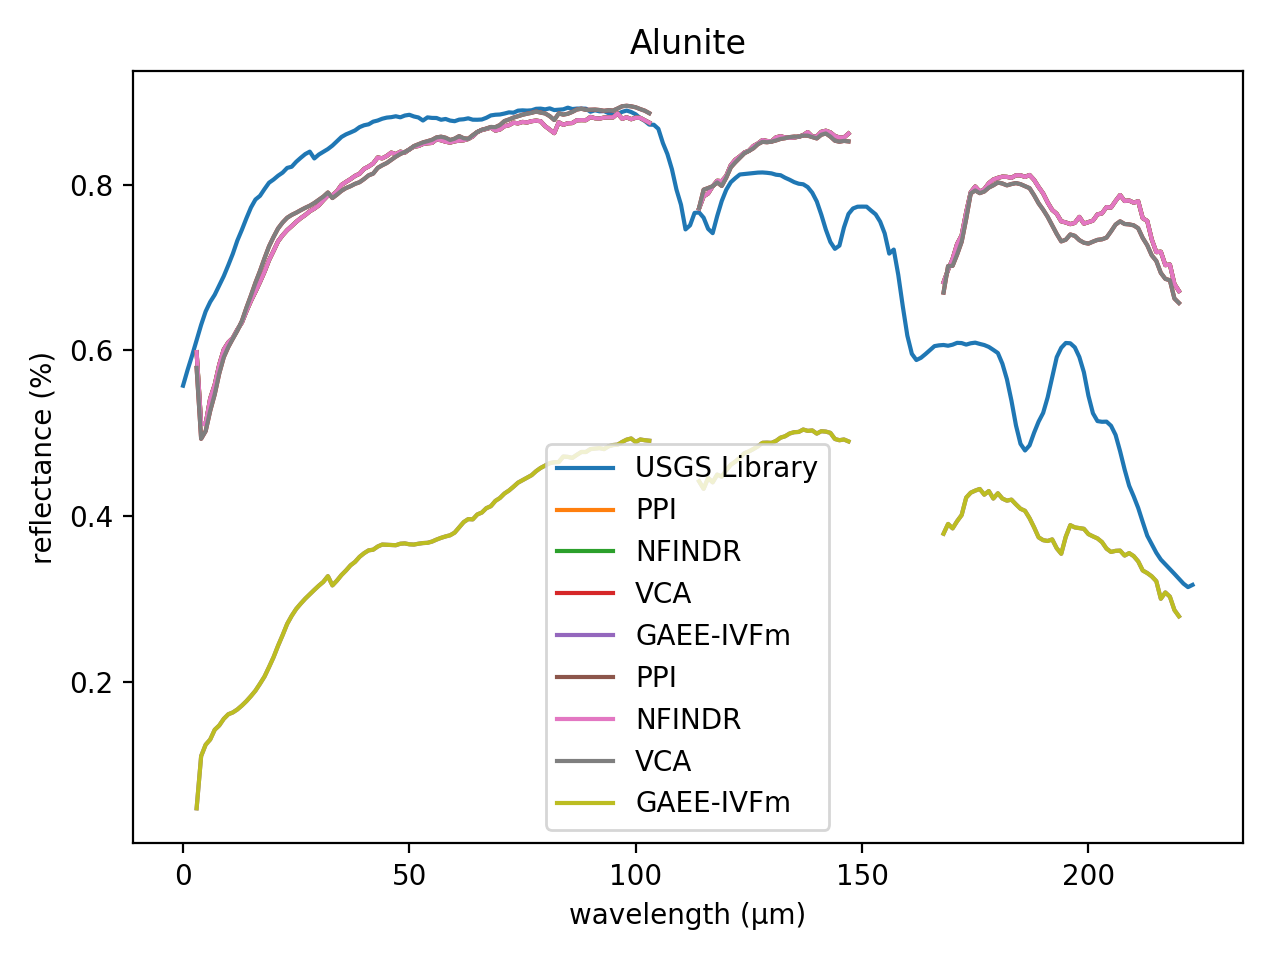
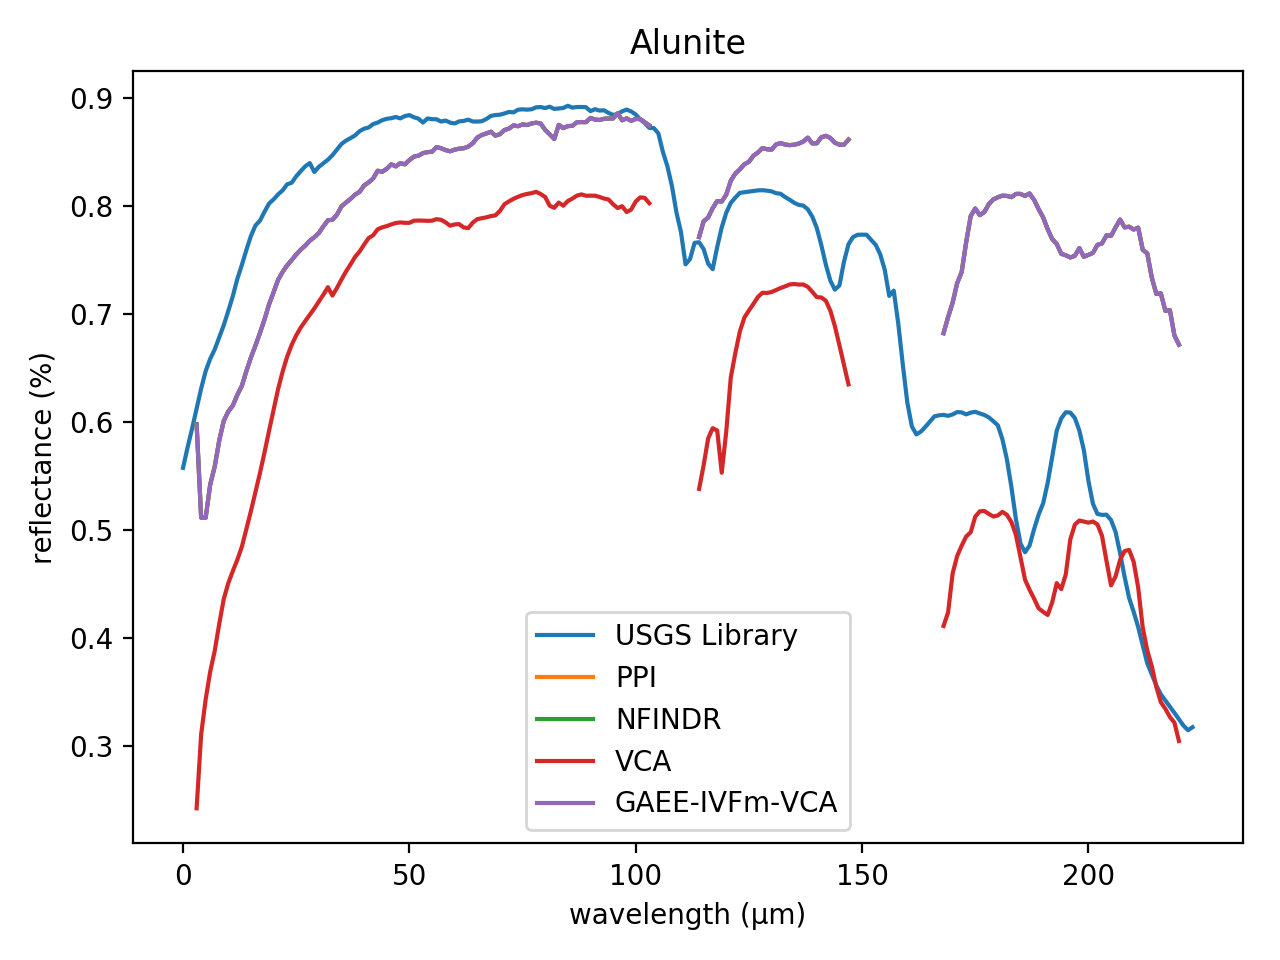
Endmembers Plot

diff --git a/DEMO.py b/DEMO.py
@@ -518,46 +518,37 @@ def run():
 	tab5_sid_stats['Statistics'] = ['_Mean_','_Std_','_p-value_','Gain','_Time_']	
 	tab5_sid_stats.set_index('Statistics',inplace=True) 
 
+	best_sam_gaee = None
+	best_sam_mean_gaee = 9999
+	best_sid_gaee = None
+	best_sid_mean_gaee = 9999
+
+	algo2 = []
+
+	for k in range(0,3):
+		algo2.append(algo[k])
+
+	for k in algo:
+		if k.name != 'PPI' and k.name != 'NFINDR' and k.name != 'VCA':
+			if np.mean(k.sam_mean) <= best_sam_mean_gaee :
+				best_sam_gaee = k
+				best_sam_mean_gaee = np.mean(k.sam_mean)
+			if np.mean(k.sid_mean) <= best_sid_mean_gaee :
+				best_sid_gaee = k
+				best_sid_mean_gaee = np.mean(k.sid_mean)
+
+	algo2.append(best_sam_gaee)
+
 
 	for l in algo:
-		best_gaee = None
-		best_mean_gaee = 9999
-		algo2 = []
-
-		for k in range(0,3):
-			algo2.append(algo[k])
-
-		for k in algo:
-			if k.name != 'PPI' and k.name != 'NFINDR' and k.name != 'VCA':
-				if np.mean(k.sam_mean) <= best_mean_gaee :
-					best_gaee = k
-					best_mean_gaee = np.mean(k.sam_mean)
-
-		algo2.append(best_gaee)
 
 		p = stats.ttest_ind(np.mean(vca.sam_all_runs_value,axis=1),np.mean(l.sam_all_runs_value,axis=1))
 		tab1_sam[l.name] = l.sam_values_min
-		tab4_sam_stats[l.name] = [np.mean(l.sam_mean), np.mean(l.sam_std), p[0], 100-(100*np.mean(best_gaee.sam_mean)/np.mean(l.sam_mean)), np.mean(l.time_runs)]
-		
-		best_gaee = None
-		best_mean_gaee = 9999
-		algo2 = []
-
-		for k in range(0,3):
-			algo2.append(algo[k])
-
-		for k in algo:
-			if k.name != 'PPI' and k.name != 'NFINDR' and k.name != 'VCA':
-				if np.mean(k.sid_mean) <= best_mean_gaee :
-					best_gaee = k
-					best_mean_gaee = np.mean(k.sid_mean)
-
-		algo2.append(best_gaee)
-
+		tab4_sam_stats[l.name] = [np.mean(l.sam_mean), np.mean(l.sam_std), p[0], 100-(100*np.mean(best_sam_gaee.sam_mean)/np.mean(l.sam_mean)), np.mean(l.time_runs)]
 
 		p = stats.ttest_ind(np.mean(vca.sid_all_runs_value,axis=1),np.mean(l.sid_all_runs_value,axis=1))
 		tab2_sid[l.name] = l.sid_values_min
-		tab5_sid_stats[l.name] = [np.mean(l.sid_mean), np.mean(l.sid_std), p[0],100-(100*np.mean(best_gaee.sam_mean)/np.mean(l.sam_mean)) ,np.mean(l.time_runs)]
+		tab5_sid_stats[l.name] = [np.mean(l.sid_mean), np.mean(l.sid_std), p[0],100-(100*np.mean(best_sid_gaee.sam_mean)/np.mean(l.sam_mean)) ,np.mean(l.time_runs)]
 
 
 	file.write('### Comparison between the ground-truth Laboratory Reflectances and extracted endmembers using PPI, N-FINDR, VCA, GAEE, GAEE-IVFm using SAM for the Cuprite Dataset.\n\n')
@@ -592,23 +583,10 @@ def run():
 		table_fancy = table_fancy.replace(line, line.replace(' '+mi+' ', ' **'+mi+'** '))
 	file.write(table_fancy+'\n\n')
 
-
-	for k in range(0,3):
-		algo2.append(algo[k])
-
-		for k in algo:
-			if k.name != 'PPI' and k.name != 'NFINDR' and k.name != 'VCA':
-				if np.mean(k.sam_mean) <= best_mean_gaee :
-					best_gaee = k
-					best_mean_gaee = np.mean(k.sam_mean)
-
-	algo2.append(best_gaee)	
-	colors = []
-
 	# fig = plt.figure()
 	for i in range(0, 12):
 		fig = plt.figure()
-		plt.plot(best_gaee.groundtruth[:,i],label='USGS Library')
+		plt.plot(best_sam_gaee.groundtruth[:,i],label='USGS Library')
 		
 		for idx, k in enumerate(algo2):
 			new_endmember = np.empty((k.groundtruth.shape[0],k.p)) 

diff --git a/README.md b/README.md
@@ -29,55 +29,55 @@ Maximum number of iterations (N-FINDR): 1
 
 | Endmembers       |    PPI |   NFINDR |    VCA |   GAEE |   GAEE-IVFm |   GAEE-VCA |   GAEE-IVFm-VCA |
 |:-----------------|-------:|---------:|-------:|-------:|------------:|-----------:|----------------:|
-| Alunite          | 0.3744 |   **0.0926** | 0.1016 | 0.2821 |      0.2495 |     0.2154 |          0.1433 |
-| Andradite        | 0.0758 |   **0.0725** | 0.0874 | 0.0736 |      0.0763 |     0.0796 |          0.0832 |
-| Buddingtonite    | 0.2081 |   **0.0762** | 0.0786 | 0.1115 |      0.1240 |     **0.0762** |          **0.0762** |
-| Dumortierite     | 0.1907 |   0.0720 | **0.0708** | 0.0796 |      0.0905 |     0.1007 |          0.0721 |
-| Kaolinite_1      | **0.0795** |   0.0870 | 0.1191 | 0.0851 |      0.1025 |     0.1242 |          0.1556 |
-| Kaolinite_2      | 0.0820 |   0.0889 | 0.0811 | **0.0621** |      0.0657 |     0.0679 |          0.0886 |
-| Muscovite        | 0.2506 |   0.1091 | **0.1065** | 0.1635 |      0.1774 |     0.1454 |          0.1211 |
-| Montmonrillonite | 0.1338 |   0.0648 | **0.0640** | 0.0649 |      0.0804 |     0.0653 |          0.0646 |
-| Nontronite       | 0.1033 |   **0.0758** | 0.0799 | 0.0781 |      0.0771 |     0.0820 |          0.0771 |
-| Pyrope           | **0.0579** |   0.1222 | 0.2140 | 0.0695 |      0.0674 |     0.0616 |          0.2310 |
-| Sphene           | **0.0673** |   0.2857 | 0.0834 | 0.0781 |      0.1147 |     0.0698 |          0.0698 |
-| Chalcedony       | 0.0871 |   0.0871 | **0.0761** | 0.1175 |      0.1083 |     0.0765 |          0.0765 |
+| Alunite          | 0.3744 |   **0.0926** | 0.1025 | 0.2242 |      0.3112 |     **0.0926** |          **0.0926** |
+| Andradite        | 0.0758 |   0.0725 | 0.0825 | **0.0669** |      0.0701 |     0.0710 |          0.0789 |
+| Buddingtonite    | 0.2081 |   **0.0762** | 0.0786 | 0.1266 |      0.0906 |     0.1550 |          **0.0762** |
+| Dumortierite     | 0.1907 |   0.0720 | **0.0708** | 0.0896 |      0.0791 |     0.0755 |          0.1209 |
+| Kaolinite_1      | **0.0795** |   0.0870 | 0.0862 | 0.0875 |      0.1053 |     0.0870 |          0.0870 |
+| Kaolinite_2      | 0.0820 |   0.0889 | 0.0785 | **0.0628** |      0.0660 |     0.0936 |          0.0658 |
+| Muscovite        | 0.2506 |   0.1091 | **0.1084** | 0.1752 |      0.1610 |     0.1825 |          0.1211 |
+| Montmonrillonite | 0.1338 |   0.0648 | 0.0651 | 0.0656 |      0.0669 |     0.0657 |          **0.0646** |
+| Nontronite       | 0.1033 |   0.0758 | 0.1122 | **0.0718** |      0.0795 |     0.0789 |          0.0801 |
+| Pyrope           | **0.0579** |   0.1222 | 0.2768 | 0.0601 |      0.0778 |     0.0670 |          0.0588 |
+| Sphene           | 0.0673 |   0.2857 | **0.0530** | 0.0990 |      0.0638 |     0.1000 |          0.2182 |
+| Chalcedony       | **0.0871** |   **0.0871** | 0.0878 | 0.1388 |      0.1221 |     **0.0871** |          **0.0871** |
 
 ### SAM Statistics for Cuprite Dataset. 
 
-| Statistics   |      PPI |   NFINDR |     VCA |    GAEE |   GAEE-IVFm |   GAEE-VCA |   GAEE-IVFm-VCA |
-|:-------------|---------:|---------:|--------:|--------:|------------:|-----------:|----------------:|
-| _Mean_       |   0.1425 |   0.1059 |  **0.0984** |  0.1106 |      0.1139 |     0.1054 |          0.1054 |
-| _Std_        |   **0.0000** |   0.0086 |  0.0065 |  0.0094 |      0.0109 |     0.0131 |          0.0142 |
-| _p-value_    | -28.8327 |  -2.1689 |  0.0000 | -2.2800 |     -4.8922 |    **-0.8218** |         -4.3537 |
-| Gain         |  26.0739 |   0.5364 | **-7.0768** |  4.7203 |      7.5104 |     0.0000 |          0.0460 |
-| _Time_       |   0.2686 |   4.0963 |  0.6955 |  0.2738 |      0.2505 |     0.2393 |          **0.2325** |
+| Statistics   |      PPI |   NFINDR |    VCA |    GAEE |   GAEE-IVFm |   GAEE-VCA |   GAEE-IVFm-VCA |
+|:-------------|---------:|---------:|-------:|--------:|------------:|-----------:|----------------:|
+| _Mean_       |   0.1425 |   0.1059 | 0.1030 |  0.1107 |      0.1126 |     0.1040 |          **0.0976** |
+| _Std_        |   **0.0000** |   0.0086 | 0.0260 |  0.0061 |      0.0082 |     0.0142 |          0.0018 |
+| _p-value_    | -13.9798 |  -0.6928 | 0.0000 | -1.3316 |     -1.7156 |    **-0.1215** |          1.6440 |
+| Gain         |  31.5080 |   7.8477 | 5.2402 | 11.7820 |     13.2709 |     6.1464 |         **-0.0000** |
+| _Time_       |   0.2455 |   3.9192 | 0.7190 |  0.2367 |      0.2436 |     **0.2148** |          0.2480 |
 
 ### Comparison between the ground-truth Laboratory Reflectances and extracted endmembers using PPI, N-FINDR, VCA, GAEE, GAEE-IVFm using SID for the Cuprite Dataset.
 
 | Endmembers       |    PPI |   NFINDR |    VCA |   GAEE |   GAEE-IVFm |   GAEE-VCA |   GAEE-IVFm-VCA |
 |:-----------------|-------:|---------:|-------:|-------:|------------:|-----------:|----------------:|
-| Alunite          | **0.0000** |   **0.0000** | 0.0133 | **0.0000** |      **0.0000** |     **0.0000** |          **0.0000** |
-| Andradite        | **0.0000** |   0.0062 | 0.0087 | 0.0063 |      **0.0000** |     0.0085 |          0.0119 |
-| Buddingtonite    | 0.0477 |   **0.0072** | 0.0077 | 0.0197 |      0.0187 |     **0.0072** |          **0.0072** |
-| Dumortierite     | 0.0562 |   **0.0069** | 0.0072 | 0.0084 |      0.0130 |     0.0151 |          0.0075 |
-| Kaolinite_1      | 0.0114 |   0.0131 | 0.0167 | **0.0108** |      0.0175 |     0.0181 |          0.0256 |
-| Kaolinite_2      | 0.0114 |   0.0109 | 0.0076 | 0.0064 |      **0.0039** |     0.0053 |          0.0078 |
-| Muscovite        | 0.0969 |   0.0317 | **0.0143** | 0.0360 |      0.0390 |     0.0429 |          0.0313 |
-| Montmonrillonite | 0.0230 |   0.0049 | 0.0049 | 0.0051 |      0.0049 |     0.0049 |          **0.0047** |
-| Nontronite       | 0.0126 |   0.0077 | **0.0075** | 0.0077 |      0.0077 |     0.0094 |          0.0155 |
-| Pyrope           | 0.0071 |   0.0531 | 0.0532 | **0.0065** |      0.0071 |     0.0071 |          0.0740 |
-| Sphene           | **0.0076** |   0.0912 | 0.0096 | 0.0259 |      0.0308 |     0.0093 |          0.0093 |
-| Chalcedony       | 0.0088 |   0.0088 | **0.0069** | 0.0190 |      0.0307 |     0.0070 |          0.0070 |
+| Alunite          | **0.0000** |   **0.0000** | 0.0140 | **0.0000** |      **0.0000** |     **0.0000** |          0.0107 |
+| Andradite        | **0.0000** |   0.0062 | 0.0256 | **0.0000** |      **0.0000** |     **0.0000** |          0.0119 |
+| Buddingtonite    | 0.0477 |   0.0072 | 0.0077 | **0.0000** |      0.0105 |     0.0325 |          0.0072 |
+| Dumortierite     | 0.0562 |   0.0069 | **0.0056** | 0.0130 |      0.0084 |     0.0077 |          0.0197 |
+| Kaolinite_1      | **0.0114** |   0.0131 | 0.0129 | 0.0180 |      0.0127 |     0.0131 |          0.0131 |
+| Kaolinite_2      | 0.0114 |   0.0109 | 0.0132 | **0.0057** |      0.0059 |     0.0102 |          0.0061 |
+| Muscovite        | 0.0969 |   0.0317 | **0.0108** | 0.0416 |      0.0320 |     0.0317 |          0.0189 |
+| Montmonrillonite | 0.0230 |   0.0049 | 0.0054 | 0.0052 |      0.0053 |     0.0056 |          **0.0047** |
+| Nontronite       | 0.0126 |   0.0077 | 0.0093 | **0.0073** |      0.0082 |     0.0076 |          0.0079 |
+| Pyrope           | 0.0071 |   0.0531 | **0.0048** | 0.0073 |      0.0089 |     0.0144 |          0.0081 |
+| Sphene           | **0.0076** |   0.0912 | 0.1187 | 0.0209 |      0.0241 |     0.0550 |          0.0550 |
+| Chalcedony       | 0.0088 |   0.0088 | **0.0078** | 0.0272 |      0.0270 |     0.0088 |          0.0088 |
 
 ### SID Statistics for Cuprite Dataset. 
 
-| Statistics   |     PPI |   NFINDR |      VCA |    GAEE |   GAEE-IVFm |   GAEE-VCA |   GAEE-IVFm-VCA |
-|:-------------|--------:|---------:|---------:|--------:|------------:|-----------:|----------------:|
-| _Mean_       |  0.0236 |   0.0227 |   0.0216 |  0.0167 |      **0.0159** |     0.0164 |          0.0170 |
-| _Std_        |  **0.0000** |   0.0033 |   0.0102 |  0.0056 |      0.0020 |     0.0072 |          0.0026 |
-| _p-value_    | -0.2377 |  **-0.1269** |   0.0000 |  0.5195 |      0.6644 |     0.5181 |          0.5412 |
-| Gain         | 20.0709 |  -7.5403 | **-15.7717** | -3.0167 |      0.0000 |    -8.1203 |         -8.0706 |
-| _Time_       |  0.2686 |   4.0963 |   0.6955 |  0.2738 |      0.2505 |     0.2393 |          **0.2325** |
+| Statistics   |     PPI |   NFINDR |     VCA |   GAEE |   GAEE-IVFm |   GAEE-VCA |   GAEE-IVFm-VCA |
+|:-------------|--------:|---------:|--------:|-------:|------------:|-----------:|----------------:|
+| _Mean_       |  0.0236 |   0.0227 |  0.0238 | **0.0130** |      0.0151 |     0.0160 |          0.0194 |
+| _Std_        |  **0.0000** |   0.0033 |  0.0073 | 0.0031 |      0.0039 |     0.0029 |          0.0059 |
+| _p-value_    |  0.0620 |   0.2344 |  **0.0000** | 2.5285 |      1.6629 |     1.8505 |          0.6786 |
+| Gain         | 22.3605 |  -4.4597 | -7.4155 | 0.0000 |      1.6878 |    -6.3882 |        **-13.3555** |
+| _Time_       |  0.2455 |   3.9192 |  0.7190 | 0.2367 |      0.2436 |     **0.2148** |          0.2480 |
 
 ![alt text](./IMAGES/Alunite_Endmember.png)
 
